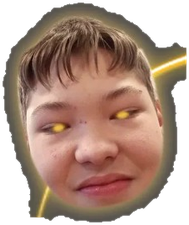
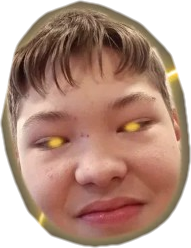
Add files via upload

diff --git a/index.html b/index.html
@@ -132,7 +132,7 @@ html,body,#pet{touch-action:manipulation}
 .aura.k-sun .a2{animation:sunSpinR 18s linear infinite}
 @keyframes sunSpin{from{transform:translateX(-50%) rotate(0deg)}to{transform:translateX(-50%) rotate(360deg)}}
 @keyframes sunSpinR{from{transform:translateX(-50%) rotate(0deg)}to{transform:translateX(-50%) rotate(-360deg)}}
-.ring{position:absolute;left:50%;top:6%;width:122cqw;aspect-ratio:720/697;transform:translate(-50%,-50%);display:none;pointer-events:none}
+.ring{position:absolute;left:50%;top:-2%;width:145cqw;aspect-ratio:720/697;transform:translate(-50%,-50%);display:none;pointer-events:none}
 .rw{position:absolute;inset:0;animation:rspin 18s linear infinite}
 .rw img{position:absolute;display:block}
 .rw .rr{left:0;top:0;width:100%;height:100%}
@@ -195,7 +195,7 @@ html,body,#pet{touch-action:manipulation}
     <div id="petWrap">
       <div class="aura" id="aura"><img class="a1" alt=""><img class="a2" alt=""></div>
       <div class="pet" id="pet">
-        <div class="ring" id="ring"><div class="rw"><img class="rr" data-src="aura-d9r.png" alt=""><img class="rh" data-src="aura-d9h1.png" style="left:9.58%;top:3.30%;width:31.53%" alt=""><img class="rh" data-src="aura-d9h2.png" style="left:60.42%;top:3.30%;width:31.39%" alt=""><img class="rh" data-src="aura-d9h3.png" style="left:9.58%;top:57.53%;width:32.92%" alt=""><img class="rh" data-src="aura-d9h4.png" style="left:58.19%;top:53.52%;width:33.61%" alt=""></div></div>
+        <div class="ring" id="ring"><div class="rw"><img class="rr" data-src="aura-d9r.png" alt=""><img class="rh" data-src="aura-d9h1.png" style="left:11.67%;top:4.88%;width:26.53%" alt=""><img class="rh" data-src="aura-d9h2.png" style="left:63.47%;top:5.31%;width:26.81%" alt=""><img class="rh" data-src="aura-d9h3.png" style="left:11.53%;top:58.97%;width:26.81%" alt=""><img class="rh" data-src="aura-d9h4.png" style="left:63.19%;top:57.10%;width:27.08%" alt=""></div></div>
         <div class="photo" id="photo"><img src="yunus.jpg" alt="Юнус" draggable="false"></div>
         <div class="eyes" id="eyes"><img class="eo" src="sharingan-open.png" alt=""><img class="ec" src="sharingan-closed.png" alt=""></div>
         <div class="eyesG" id="eyesG"><img class="eo" src="gold-open.png" alt=""><img class="ec" src="gold-closed.png" alt=""></div>
@@ -413,7 +413,8 @@ const CHANGELOG = [
     'Золотые глаза с морганием — в магазине за 2500 монет',
     'Новая аура «Кроваво-чёрная» — за 100 000 кликов',
     'Новая аура «Солнечный взрыв» — за 111 111 кликов',
-    'Еда в магазине теперь платная: яблоко, банан и молоко — 5 монет, пицца — 10, бургер — 20, тортик — 30']},
+    'Еда в магазине теперь платная: яблоко, банан и молоко — 5 монет, пицца — 10, бургер — 20, тортик — 30',
+    'Патч 1: были исправлены небольшие баги']},
   {v:'1.1.4', items:[
     'Шаринганы: красные глаза с морганием (открываются по коду)',
     'Новая аура «Чёрная» — за 50 000 кликов',

diff --git a/sw.js b/sw.js
@@ -1,4 +1,4 @@
-const CACHE = 'yunus-v1-1-5';
+const CACHE = 'yunus-v1-1-5-p1';
 const FILES = ['./', './index.html', './yunus.jpg', './manifest.webmanifest', './icon-192.png', './icon-512.png', './icon-maskable-512.png', './apple-touch-icon.png', './aura-violet.png', './aura-blue.png', './aura-red.png', './aura-gold.png', './aura-pink.png', './hair-h1.png', './hair-h2.png', './hair-h3.png', './hair-h4.png', './aura-black.png', './aura-fire.png', './aura-plasma.png', './sharingan-open.png', './sharingan-closed.png', './aura-blood.png', './aura-sun.png', './aura-d9.png', './aura-d9r.png', './aura-d9h1.png', './aura-d9h2.png', './aura-d9h3.png', './aura-d9h4.png', './gold-open.png', './gold-closed.png', './gold-thumb.png'];
 self.addEventListener('install', e => { e.waitUntil(caches.open(CACHE).then(c => c.addAll(FILES)).then(() => self.skipWaiting())); });
 self.addEventListener('activate', e => { e.waitUntil(caches.keys().then(ks => Promise.all(ks.filter(k => k !== CACHE).map(k => caches.delete(k)))).then(() => self.clients.claim())); });
